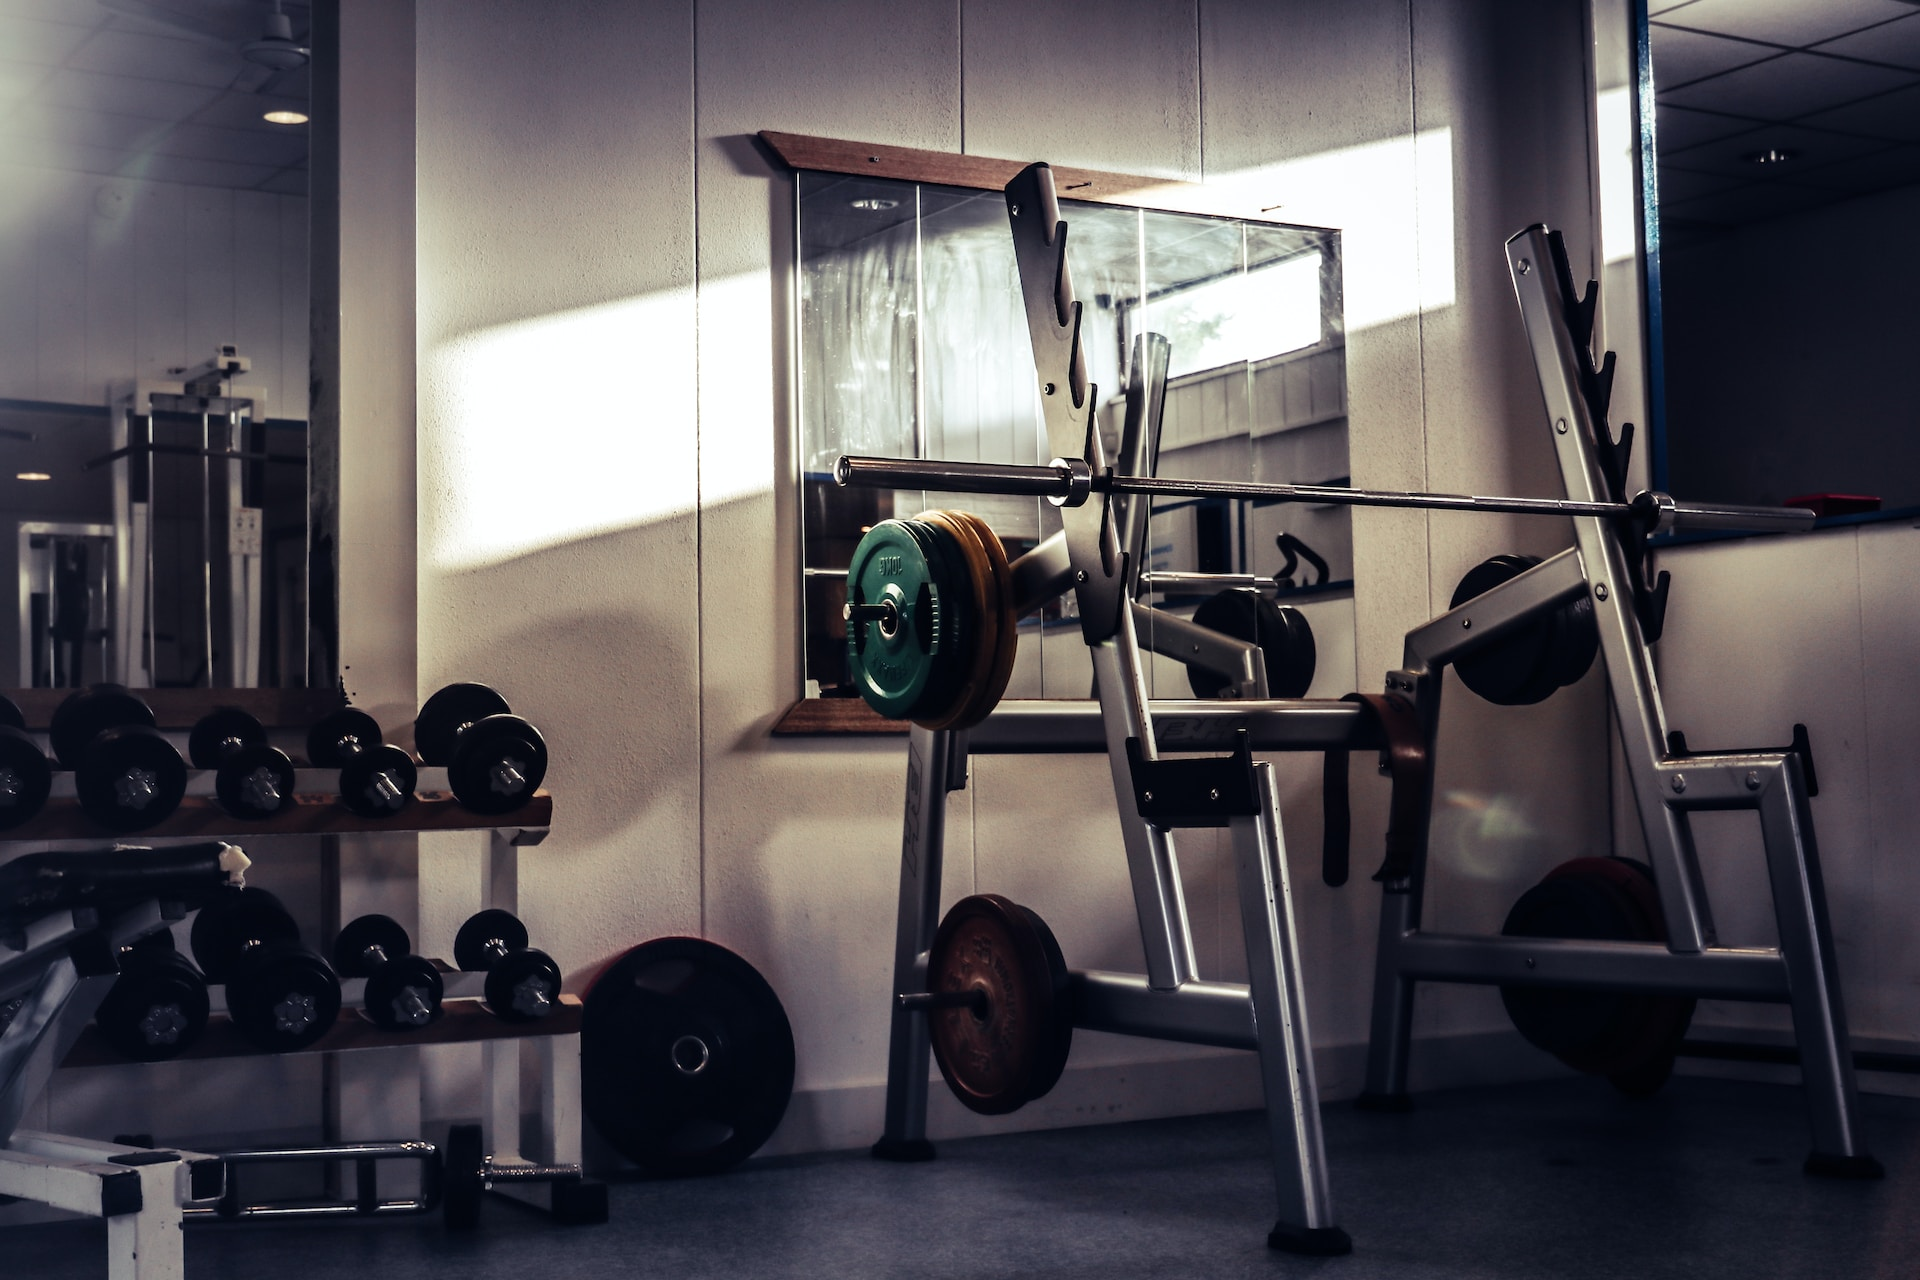
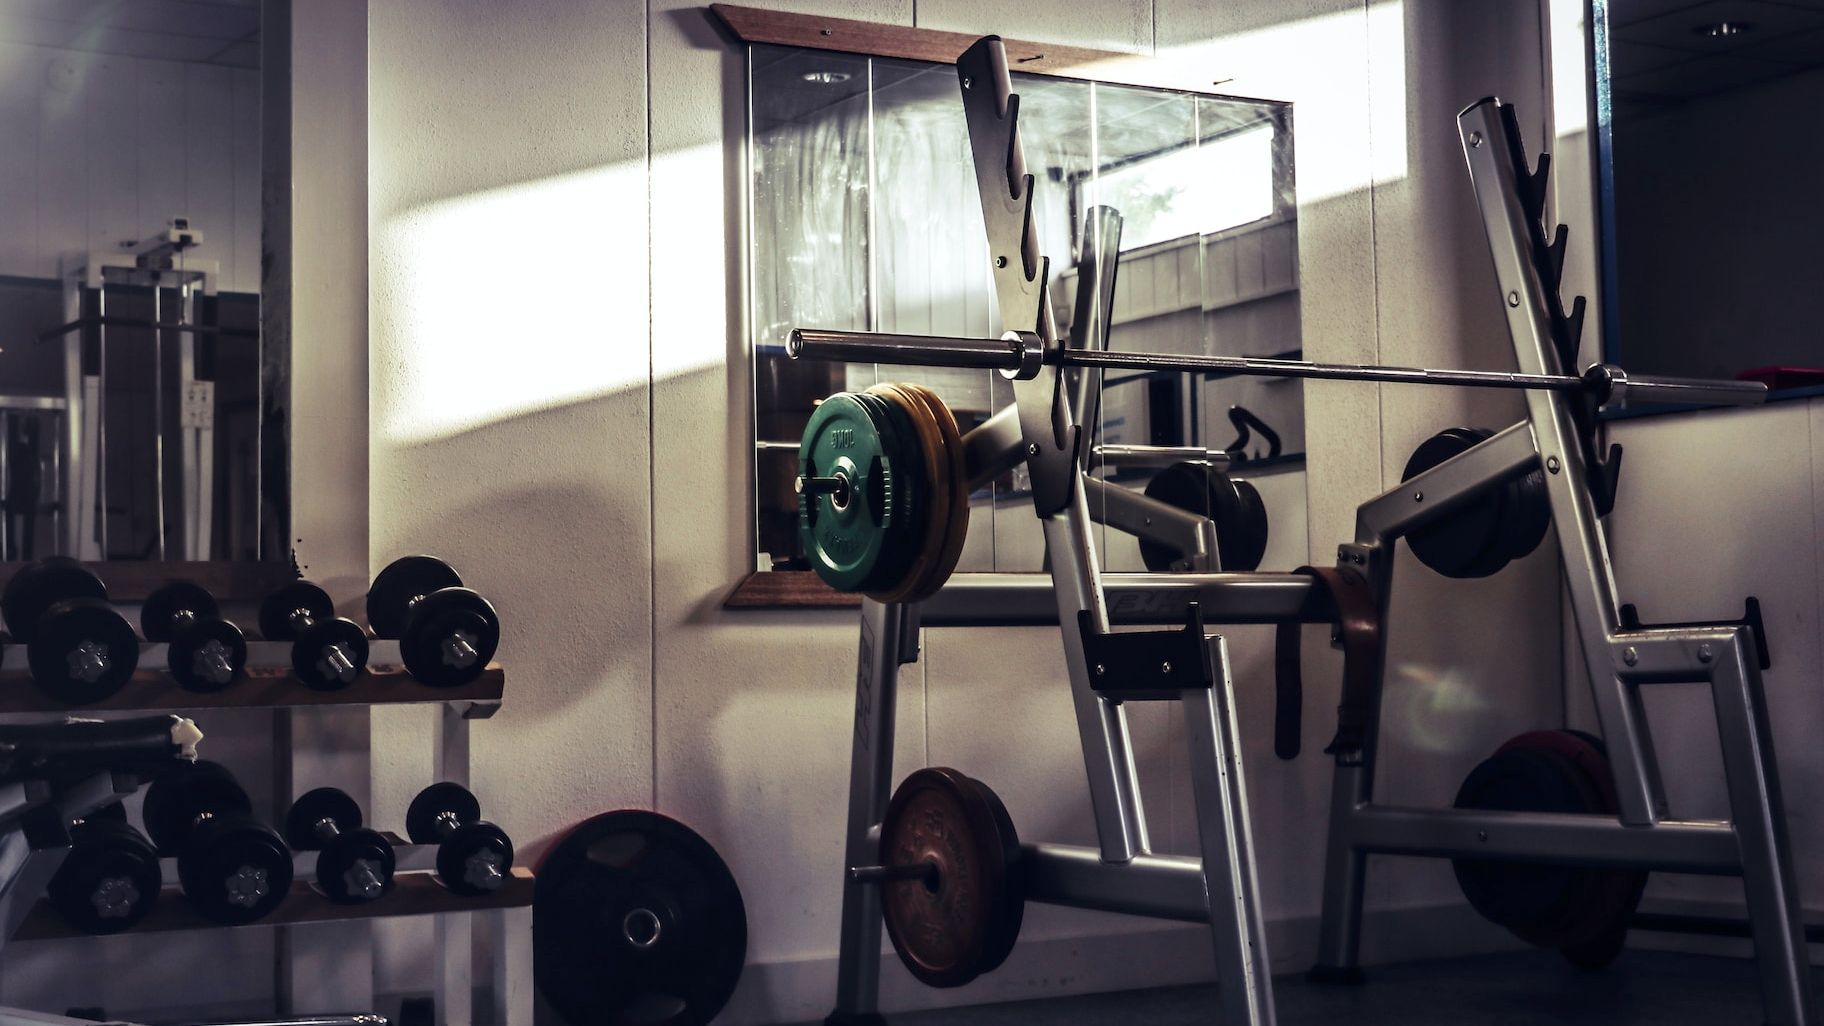
carousel adicionado

diff --git a/src/Home/Facilities/Carousel/Carousel.jsx b/src/Home/Facilities/Carousel/Carousel.jsx
@@ -1,0 +1,90 @@
+import React from 'react';
+import styles from './Carousel.module.scss';
+import Back from '../../../assets/back.svg';
+import Next from '../../../assets/next.svg';
+
+const Carousel = ({ src }) => {
+  const [position, setPosition] = React.useState(0);
+  const [index, setIndex] = React.useState(0);
+  const slideRef = React.useRef();
+
+  React.useEffect(() => {
+    const { width } = slideRef.current.getBoundingClientRect();
+    setPosition(-(index * width));
+  }, [index]);
+
+  function handleBack() {
+    const isSlideStart = index > 0;
+    isSlideStart ? setIndex(index - 1) : setIndex(src.length - 1);
+  }
+  function handleNext() {
+    const isSlideEnd = index < src.length - 1;
+    isSlideEnd ? setIndex(index + 1) : setIndex(0);
+  }
+
+  return (
+    <section className={styles.carouselWrapper}>
+      <div className={styles.carouselContainer}>
+        <div
+          className={styles.carouselContent}
+          style={{ transform: `translateX(${position}px)` }}
+          ref={slideRef}
+        >
+          {src.map((item) => (
+            <div className={styles.item} key={item.desktop}>
+              <img
+                className={styles.desktopImg}
+                src={item.desktop}
+                alt="Foto das instalações da academia"
+              />
+              <img
+                className={styles.mobileImg}
+                src={item.mobile}
+                alt="Foto das instalações da academia"
+              />
+            </div>
+          ))}
+        </div>
+        <nav className={styles.carouselNav}>
+          <ul>
+            <li>
+              <button onClick={handleBack}>
+                <img src={Back} alt="Botão para voltar" />
+              </button>
+            </li>
+            <li>
+              <button onClick={handleNext}>
+                <img src={Next} alt="Botão para avançar" />
+              </button>
+            </li>
+          </ul>
+        </nav>
+        <ul className={styles.navDetail}>
+          <li>
+            <span
+              style={
+                index === 0 ? { scale: '1', backgroundColor: '#2525A3' } : {}
+              }
+            ></span>
+          </li>
+          <li>
+            <span
+              style={
+                index === 1 ? { scale: '1', backgroundColor: '#2525A3' } : {}
+              }
+            ></span>
+          </li>
+          <li>
+            <span
+              style={
+                index === 2 ? { scale: '1', backgroundColor: '#2525A3' } : {}
+              }
+            ></span>
+          </li>
+        </ul>
+      </div>
+    </section>
+  );
+};
+
+export default Carousel;

diff --git a/src/Home/Facilities/Facilities.jsx b/src/Home/Facilities/Facilities.jsx
@@ -2,6 +2,17 @@ import React from 'react';
 import styles from './Facilities.module.scss';
 import Pic1 from '../../assets/facilities-1.jpg';
 import Pic1m from '../../assets/facilities-1-m.jpg';
+import Pic2 from '../../assets/facilities-2.jpg';
+import Pic2m from '../../assets/facilities-2-m.jpg';
+import Pic3 from '../../assets/facilities-3.jpg';
+import Pic3m from '../../assets/facilities-3-m.jpg';
+import Carousel from './Carousel/Carousel';
+
+const pics = [
+  { desktop: Pic1, mobile: Pic1m },
+  { desktop: Pic2, mobile: Pic2m },
+  { desktop: Pic3, mobile: Pic3m },
+];
 
 const Facilities = () => {
   return (
@@ -28,7 +39,8 @@ const Facilities = () => {
           </div>
         </div>
         <div className={styles.facilitiesCarousel}>
-          <picture>
+          <Carousel src={pics} />
+          {/* <picture>
             <source
               media="(max-width: 768px)"
               srcSet={`${Pic1m} 768w`}
@@ -36,7 +48,7 @@ const Facilities = () => {
             />
             <source srcSet={`${Pic1} 1280w`} sizes="1280px" />
             <img src={Pic1} alt="Foto das instalações da academia" />
-          </picture>
+          </picture> */}
         </div>
       </div>
     </section>

diff --git a/src/Home/Facilities/Carousel/Carousel.module.scss b/src/Home/Facilities/Carousel/Carousel.module.scss
@@ -1,0 +1,67 @@
+@import "../../../styles.scss";
+
+.desktopImg {
+  display: block;
+  @include device(s){
+    display: none;
+  }
+}
+
+.mobileImg {
+  display: none;
+  @include device(s){
+    display: block;
+  }
+}
+
+.carouselContainer {
+  overflow: hidden;
+  .carouselContent {
+    position: relative;
+    display: flex;
+    transition: .3s;
+    .item {
+      width: 100%;
+      flex-shrink: 0;
+    }
+  }
+}
+
+.carouselWrapper{
+  position: relative;
+  @include device(s){
+    margin-left: 30px;
+    margin-right: 30px;
+  }
+  .carouselNav {
+    position: absolute;
+    top: calc(50% - 29px);
+    left: -29px;
+    right: -29px;
+    ul{
+      display: flex;
+      justify-content: space-between;
+      width: 100%;
+      button{
+        background: transparent;
+        border: none;
+        cursor: pointer;
+      }
+    }
+  }
+  .navDetail{
+    display: flex;
+    justify-content: space-between;
+    width: 80%;
+    margin: 0 auto;
+    margin-top: 20px;
+      span{
+        scale: .8;
+        transition: .3s;
+        display: inline-block;
+        width: 100px;
+        height: 6px;
+        background-color: $amarelo-01;
+      }
+  }
+} 

diff --git a/src/Header/MenuMobile/MenuMobile.jsx b/src/Header/MenuMobile/MenuMobile.jsx
@@ -16,18 +16,18 @@ const MenuMobile = () => {
       {hamburguer && (
         <div className={styles.menuMobileContainer}>
           <nav className={styles.menuMobile}>
-            <ul>
-              <li>Nossas Instalações</li>
-              <li>Nossas Instalações</li>
-              <li>Nossas Instalações</li>
-              <li>Nossas Instalações</li>
-            </ul>
             <button
               className={styles.closeMenuMobile}
               onClick={() => setHamburguer(!hamburguer)}
             >
               <img src={CloseMenu} alt="Icone fechar menu hamburguer" />
             </button>
+            <ul>
+              <li>Nossas Instalações</li>
+              <li>Nossas Instalações</li>
+              <li>Nossas Instalações</li>
+              <li>Nossas Instalações</li>
+            </ul>
           </nav>
         </div>
       )}

diff --git a/src/Header/MenuMobile/MenuMobile.module.scss b/src/Header/MenuMobile/MenuMobile.module.scss
@@ -10,6 +10,7 @@
   .menuMobile {
     display: grid;
     grid-template-columns: 1fr max-content;
+    grid-template-rows: auto 1fr;
     justify-content: space-between;
     align-items: start;
     padding: 20px;
@@ -24,6 +25,10 @@
     @include device(s){
       width: 100vw;
       animation: slideDown .3s forwards;
+    }
+    ul{
+      grid-row: 2;
+      grid-column: 1;
     }
     li{
       @include button(($amarelo-01, $amarelo-09), $amarelo-15)
@@ -43,6 +48,10 @@
   font-family: monospace;
   font-weight: 700;
   padding: 20px;
+  grid-column: 2;
+  background-color: $amarelo-01;
+  border: none;
+  border-radius: 50%;
 }
 
 @keyframes slideRight {

diff --git a/src/Home/Facilities/Facilities.module.scss b/src/Home/Facilities/Facilities.module.scss
@@ -43,14 +43,14 @@
       }
     }
     p{
-      @include type-1(16);
+      @include type-1(18);
       color: $cor-base-04;
       padding-bottom: 40px;
       @include device(m){
         padding-bottom: 20px;      }
       @include device(s){
         padding-bottom: 20px;
-        @include type-1(14);
+        @include type-1(16);
       }
     }
     .facilitiesCarousel {

diff --git a/src/Footer/Footer.jsx b/src/Footer/Footer.jsx
@@ -39,7 +39,7 @@ const Footer = () => {
             </li>
             <li>
               <img src={Email} alt="" />
-              <a href="#">strongfit@outlook.com</a>
+              <a href="#">contato@strongfit.com</a>
             </li>
           </ul>
         </div>

diff --git a/src/App.jsx b/src/App.jsx
@@ -7,6 +7,7 @@ import Facilities from './Home/Facilities/Facilities';
 import Plan from './Home/Plan/Plan';
 import Footer from './Footer/Footer';
 
+
 const App = () => {
   return (
     <BrowserRouter>

diff --git a/src/App.scss b/src/App.scss
@@ -1,5 +1,6 @@
 @import "styles";
 
+
 *{
   margin: 0;
   padding: 0;
